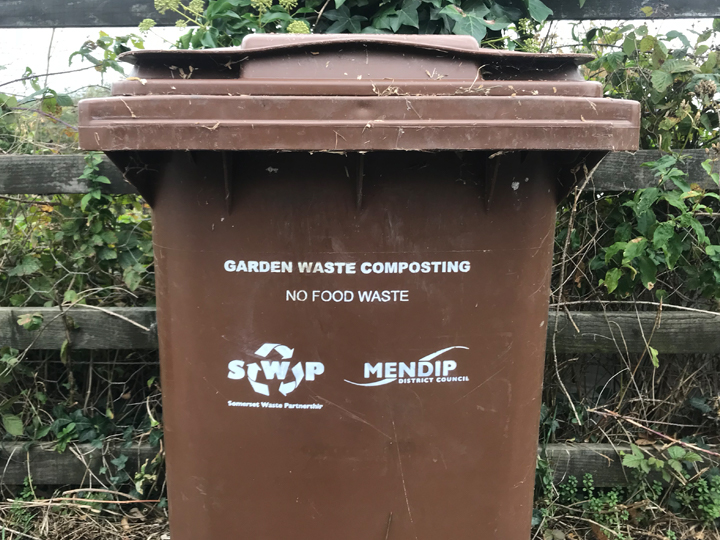
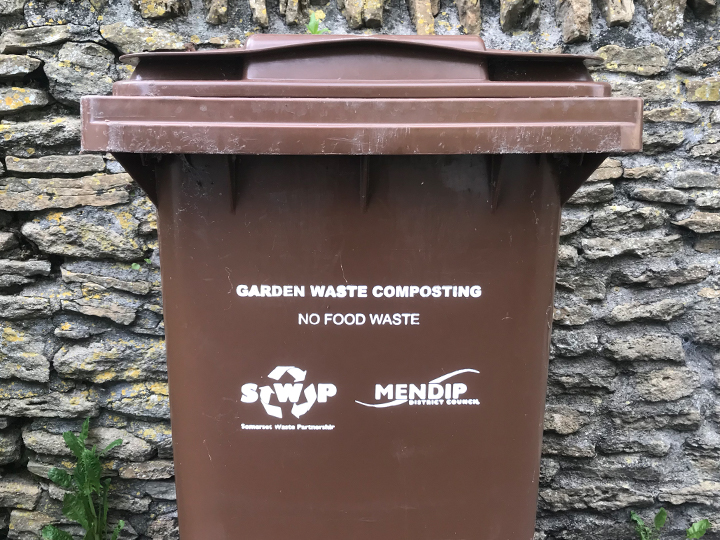
Update Mendip image

diff --git a/src/bins.js b/src/bins.js
@@ -2,6 +2,14 @@ export default
   {
     "bins": [
       {
+        "fileName": "Mendip.jpg",
+        "localAuthorityCountry": "eng",
+        "localAuthorityCode": "MEN",
+        "collectionDate": "15 April 2021",
+        "colour": "601-brown",
+        "councilName": "Mendip"
+      },
+      {
         "fileName": "Dorset.jpg",
         "localAuthorityCountry": "eng",
         "localAuthorityCode": "DOR",
@@ -1631,18 +1639,10 @@ export default
         "councilName": "City of Durham",
       },
       {
-        "fileName": "Mendip.jpg",
-        "localAuthorityCountry": "eng",
-        "localAuthorityCode": "MEN",
-        "collectionDate": "6 October 2018",
-        "colour": "601-brown",
-        "councilName": "Mendip"
-      },
-      {
         "fileName": "Sedgemoor.jpg",
         "localAuthorityCountry": "eng",
         "localAuthorityCode": "SEG",
-        "collectionDate": "8 October 2018",
+        "collectionDate":"6 October 2018",
         "colour": "779-grayscale",
         "councilName": "Sedgemoor"
       },
